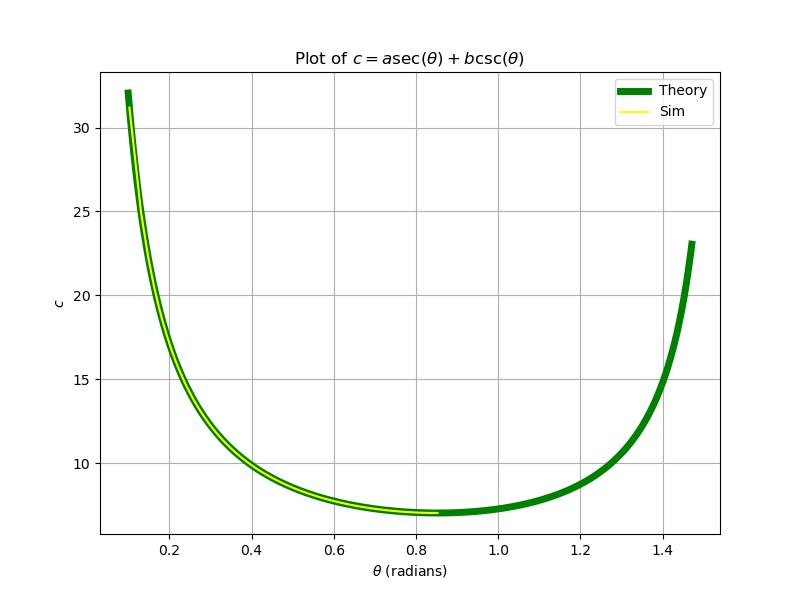
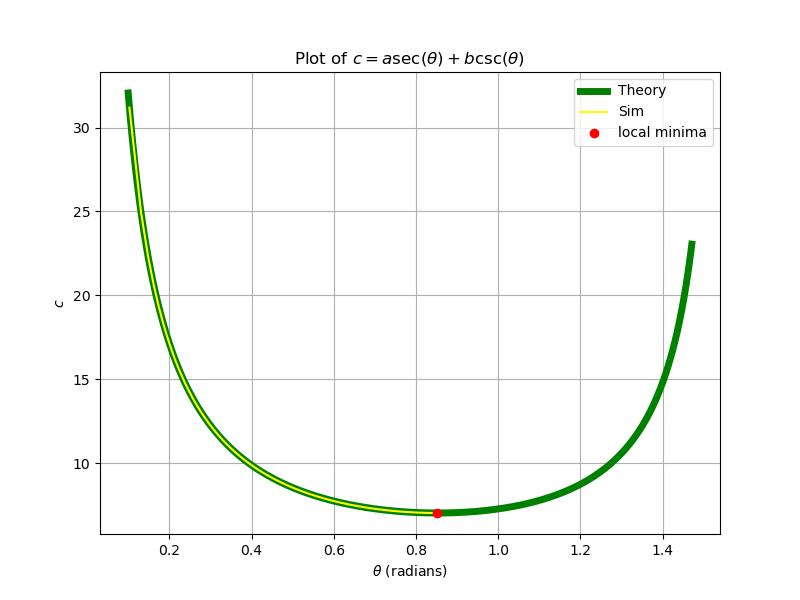
update

Changed region(s): [[0.7188, 0.12, 0.9062, 0.24], [0.5312, 0.84, 0.5625, 0.87]]

diff --git a/Desktop/12.6.6.12/codes/plot.py b/Desktop/12.6.6.12/codes/plot.py
@@ -53,11 +53,13 @@ while iteration < max_iterations:
 # Convert lists to numpy arrays for plotting
 theta = np.array(theta)
 c = np.array(c)
+print(theta[-1],c[-1])
 
 # Plotting theoretical and simulation results
 plt.figure(figsize=(8, 6))
 plt.plot(theta_vals, c_vals, label='Theory', linewidth=5, color='green')
 plt.plot(theta, c, label='Sim', color='yellow')
+plt.plot(theta[-1],c[-1], 'ro',label="local minima")
 plt.title(r'Plot of $c = a \sec(\theta) + b \csc(\theta)$')
 plt.xlabel(r'$\theta$ (radians)')
 plt.ylabel(r'$c$')
